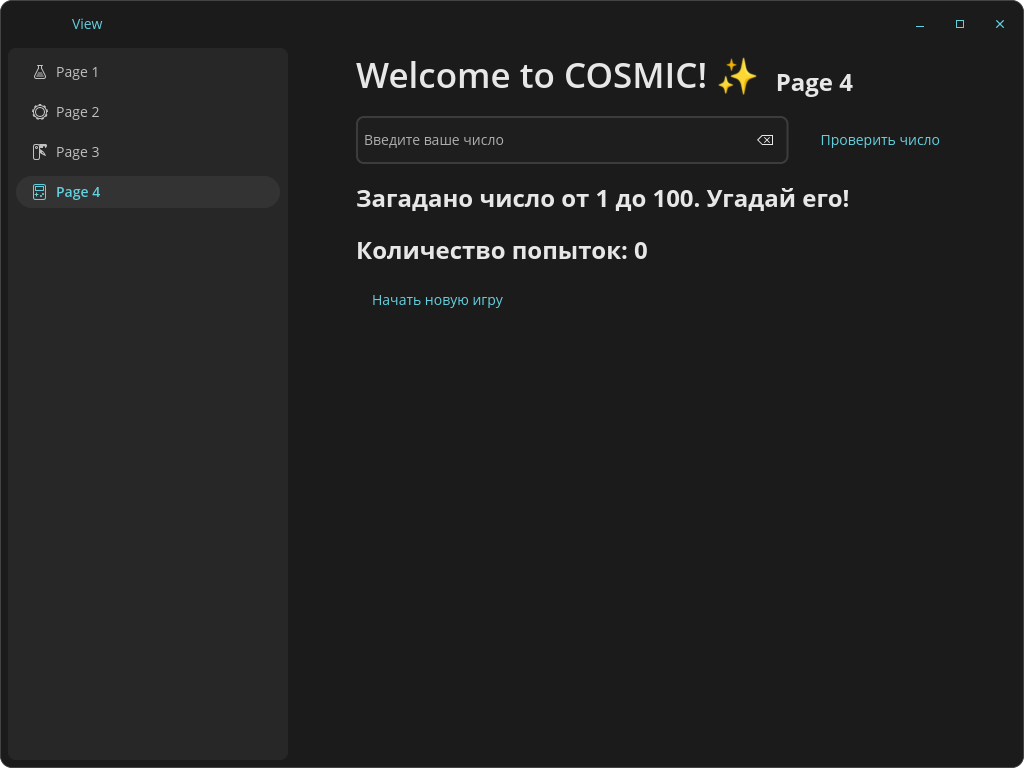
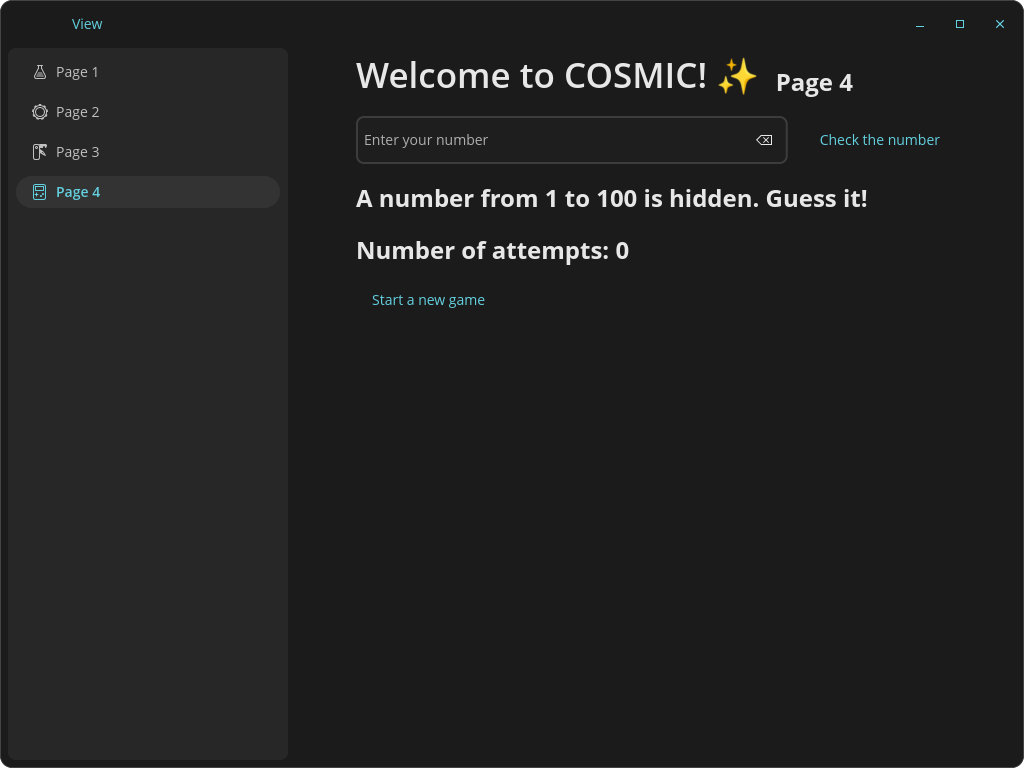
Add files via upload

diff --git a/src/app.rs b/src/app.rs
@@ -148,9 +148,9 @@ impl cosmic::Application for AppModel {
             password: String::new(),
             secret_number: rand::thread_rng().gen_range(1..=100),
             number: String::new(),
-            feedback: "Загадано число от 1 до 100. Угадай его!".to_string(),
+            feedback: "A number from 1 to 100 is hidden. Guess it!".to_string(),
             attempts_counter: 0,
-            attempts: "Количество попыток: 0".to_string(),
+            attempts: "Number of attempts: 0".to_string(),
         };
 
         // Create a startup command that sets the window title.
@@ -286,11 +286,11 @@ impl cosmic::Application for AppModel {
                     .align_y(Alignment::End)
                     .spacing(space_s);
 
-                 let number_text_input = widget::text_input("Введите ваше число", self.number.clone())
+                 let number_text_input = widget::text_input("Enter your number", self.number.clone())
                     .on_input(Message::InputNumber)
                     .on_clear(Message::ClearNumber);
 
-                 let check_button = widget::button::text("Проверить число").on_press(Message::CheckNumber);
+                 let check_button = widget::button::text("Check the number").on_press(Message::CheckNumber);
 
                  let row_number = widget::row::with_capacity(2)
                     .push(number_text_input)
@@ -300,7 +300,7 @@ impl cosmic::Application for AppModel {
 
                  let feedback_text = widget::text::title3(self.feedback.clone());
                  let attempts_text = widget::text::title3(self.attempts.clone());
-                 let new_game_button = widget::button::text("Начать новую игру").on_press(Message::NewGame);
+                 let new_game_button = widget::button::text("Start a new game").on_press(Message::NewGame);
 
                  widget::column::with_capacity(1)
                     .push(header)
@@ -404,24 +404,24 @@ impl cosmic::Application for AppModel {
                 match self.number.parse::<i64>() {
                     Ok(num) => {
                         if num == self.secret_number {
-                            self.feedback = format!("✅ Правильно! Это число {}", self.secret_number);
+                            self.feedback = format!("✅ Right! This is the number {}", self.secret_number);
                         } else if num < self.secret_number {
-                            self.feedback = "⏫ Мое число больше!".to_string();
+                            self.feedback = "⏫ My number is higher!".to_string();
                         } else {
-                            self.feedback = "⏬ Мое число меньше!".to_string();
+                            self.feedback = "⏬ My number is less!".to_string();
                         }
                         self.attempts_counter += 1;
-                        self.attempts = format!("Количество попыток: {}", self.attempts_counter);
+                        self.attempts = format!("Number of attempts: {}", self.attempts_counter);
                     }
-                    Err(_) => self.feedback = "❌ Введи число!".to_string(),
+                    Err(_) => self.feedback = "❌ Enter a number!".to_string(),
                 }
             }
             Message::NewGame => {
                 self.secret_number = rand::thread_rng().gen_range(1..=100);
                 self.number.clear();
                 self.attempts_counter = 0;
-                self.feedback = "Новое число загадано. Угадай его!".to_string();
-                self.attempts = "Количество попыток: 0".to_string();
+                self.feedback = "A new number has been guessed. Guess it!".to_string();
+                self.attempts = "Number of attempts: 0".to_string();
             }
             Message::WatchTick(time) => {
                 self.time = time;
